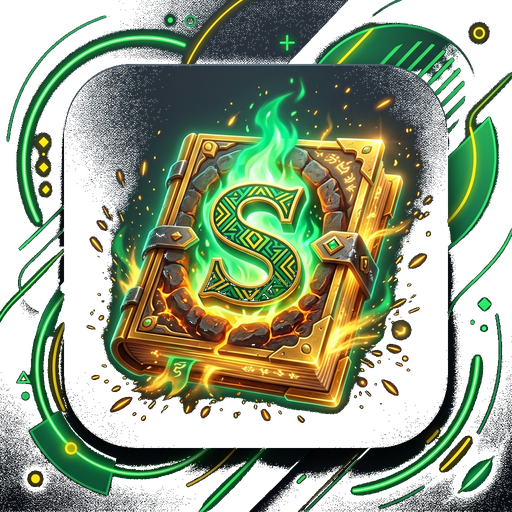
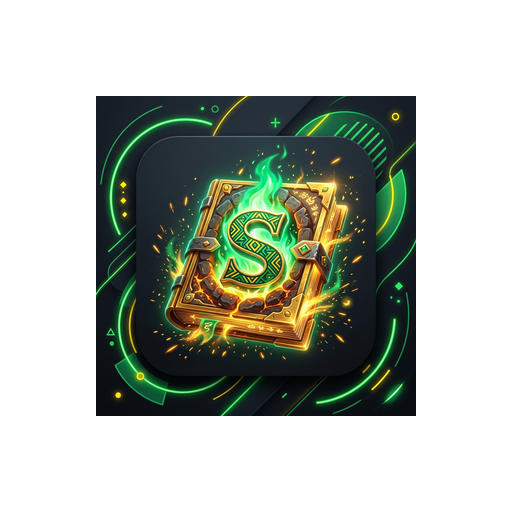
feat: generate custom branding assets and update splash screen configuration in app.json

diff --git a/scratch/generate_brand_assets.py b/scratch/generate_brand_assets.py
@@ -1,0 +1,72 @@
+import os
+from PIL import Image, ImageOps
+
+logo_path = r"C:\Users\hp\SabiSpell-V1\SabiSpell\assets\images\sabispell_logo.png"
+assets_dir = r"C:\Users\hp\SabiSpell-V1\SabiSpell\assets"
+
+def make_transparent_logo(img_path):
+    img = Image.open(img_path).convert("RGBA")
+    datas = img.getdata()
+    new_data = []
+    # The background color is white (255, 255, 255)
+    for item in datas:
+        r, g, b, a = item
+        # If the pixel is very close to white, make it transparent
+        if r > 240 and g > 240 and b > 240:
+            new_data.append((255, 255, 255, 0))
+        else:
+            new_data.append(item)
+    img.putdata(new_data)
+    
+    # Auto-crop to bounding box of non-transparent pixels to get only the logo content
+    bbox = img.getbbox()
+    if bbox:
+        img_cropped = img.crop(bbox)
+        return img_cropped
+    return img
+
+print("Processing SabiSpell logo...")
+cropped_logo = make_transparent_logo(logo_path)
+print(f"Cropped logo size: {cropped_logo.size}")
+
+# 1. Generate assets/icon.png (1024x1024, solid #141F25 background, logo centered)
+icon_bg = Image.new("RGBA", (1024, 1024), (20, 31, 37, 255)) # #141F25
+# Resize cropped logo to fit nicely (e.g. max dimension 600px)
+w, h = cropped_logo.size
+max_dim = 600
+scale = min(max_dim / w, max_dim / h)
+new_w, new_h = int(w * scale), int(h * scale)
+logo_resized = cropped_logo.resize((new_w, new_h), Image.Resampling.LANCZOS)
+# Center it
+offset = ((1024 - new_w) // 2, (1024 - new_h) // 2)
+icon_bg.paste(logo_resized, offset, logo_resized)
+icon_bg.convert("RGB").save(os.path.join(assets_dir, "icon.png"), "PNG")
+print("Saved assets/icon.png")
+
+# 2. Generate assets/splash-icon.png (1024x1024, transparent background, logo centered)
+splash_bg = Image.new("RGBA", (1024, 1024), (0, 0, 0, 0))
+# Resize cropped logo to fit nicely (e.g. max dimension 480px)
+max_dim_splash = 480
+scale_splash = min(max_dim_splash / w, max_dim_splash / h)
+new_w_splash, new_h_splash = int(w * scale_splash), int(h * scale_splash)
+logo_resized_splash = cropped_logo.resize((new_w_splash, new_h_splash), Image.Resampling.LANCZOS)
+# Center it
+offset_splash = ((1024 - new_w_splash) // 2, (1024 - new_h_splash) // 2)
+splash_bg.paste(logo_resized_splash, offset_splash, logo_resized_splash)
+splash_bg.save(os.path.join(assets_dir, "splash-icon.png"), "PNG")
+print("Saved assets/splash-icon.png")
+
+# 3. Generate assets/android-icon-foreground.png (512x512, transparent background, logo centered inside safe area)
+# Safe zone for adaptive icon is 66% of the size (about 340px)
+fore_bg = Image.new("RGBA", (512, 512), (0, 0, 0, 0))
+max_dim_fore = 320
+scale_fore = min(max_dim_fore / w, max_dim_fore / h)
+new_w_fore, new_h_fore = int(w * scale_fore), int(h * scale_fore)
+logo_resized_fore = cropped_logo.resize((new_w_fore, new_h_fore), Image.Resampling.LANCZOS)
+# Center it
+offset_fore = ((512 - new_w_fore) // 2, (512 - new_h_fore) // 2)
+fore_bg.paste(logo_resized_fore, offset_fore, logo_resized_fore)
+fore_bg.save(os.path.join(assets_dir, "android-icon-foreground.png"), "PNG")
+print("Saved assets/android-icon-foreground.png")
+
+print("All custom branding assets generated successfully!")

diff --git a/scratch/check_webp_contents.py b/scratch/check_webp_contents.py
@@ -1,0 +1,31 @@
+import os
+from PIL import Image
+import collections
+
+res_dir = r"C:\Users\hp\SabiSpell-V1\SabiSpell\android\app\src\main\res"
+path = os.path.join(res_dir, "mipmap-xxxhdpi", "ic_launcher_foreground.webp")
+
+if os.path.exists(path):
+    with Image.open(path) as img:
+        print(f"ic_launcher_foreground.webp: format={img.format}, size={img.size}, mode={img.mode}")
+        # Count transparent/non-transparent pixels
+        datas = img.getdata()
+        transparent = 0
+        non_transparent = 0
+        color_counts = collections.Counter()
+        for item in datas:
+            if len(item) == 4:
+                r, g, b, a = item
+                if a > 10:
+                    non_transparent += 1
+                    color_counts[(r, g, b)] += 1
+                else:
+                    transparent += 1
+            else:
+                non_transparent += 1
+        print(f"Transparent pixels: {transparent}, Non-transparent pixels: {non_transparent}")
+        print("Top 5 non-transparent colors:")
+        for c, count in color_counts.most_common(5):
+            print(f"  Color: {c}, Count: {count}")
+else:
+    print("File not found:", path)

diff --git a/scratch/check_native_splash.py b/scratch/check_native_splash.py
@@ -1,0 +1,30 @@
+import os
+from PIL import Image
+import collections
+
+res_dir = r"C:\Users\hp\SabiSpell-V1\SabiSpell\android\app\src\main\res"
+path = os.path.join(res_dir, "drawable-xxxhdpi", "splashscreen_logo.png")
+
+if os.path.exists(path):
+    with Image.open(path) as img:
+        print(f"splashscreen_logo.png: format={img.format}, size={img.size}, mode={img.mode}")
+        datas = img.getdata()
+        transparent = 0
+        non_transparent = 0
+        color_counts = collections.Counter()
+        for item in datas:
+            if len(item) == 4:
+                r, g, b, a = item
+                if a > 10:
+                    non_transparent += 1
+                    color_counts[(r, g, b)] += 1
+                else:
+                    transparent += 1
+            else:
+                non_transparent += 1
+        print(f"Transparent pixels: {transparent}, Non-transparent pixels: {non_transparent}")
+        print("Top 5 non-transparent colors:")
+        for c, count in color_counts.most_common(5):
+            print(f"  Color: {c}, Count: {count}")
+else:
+    print("File not found:", path)

diff --git a/scratch/check_splash_similarity.py b/scratch/check_splash_similarity.py
@@ -1,0 +1,24 @@
+import os
+from PIL import Image
+
+assets_dir = r"C:\Users\hp\SabiSpell-V1\SabiSpell\assets"
+splash_path = os.path.join(assets_dir, "splash-icon.png")
+logo_path = os.path.join(assets_dir, "images", "sabispell_logo.png")
+
+if os.path.exists(splash_path) and os.path.exists(logo_path):
+    with Image.open(splash_path) as img1, Image.open(logo_path) as img2:
+        print(f"splash-icon.png: size={img1.size}, mode={img1.mode}")
+        print(f"sabispell_logo.png: size={img2.size}, mode={img2.mode}")
+        
+        # Compare pixels
+        img1_rgb = img1.convert("RGB")
+        img2_rgb = img2.convert("RGB")
+        
+        diff = 0
+        for x in range(0, 1024, 8):
+            for y in range(0, 1024, 8):
+                if img1_rgb.getpixel((x, y)) != img2_rgb.getpixel((x, y)):
+                    diff += 1
+        print("Difference count (sampled 1/64 pixels):", diff)
+else:
+    print("Files not found")

diff --git a/scratch/inspect_splash_and_foreground.py b/scratch/inspect_splash_and_foreground.py
@@ -1,0 +1,25 @@
+from PIL import Image
+import os
+
+assets_dir = r"C:\Users\hp\SabiSpell-V1\SabiSpell\assets"
+files = [
+    "icon.png",
+    "splash-icon.png",
+    "android-icon-foreground.png",
+    "android-icon-background.png",
+    "android-icon-monochrome.png"
+]
+
+for f in files:
+    path = os.path.join(assets_dir, f)
+    if os.path.exists(path):
+        with Image.open(path) as img:
+            print(f"{f}: format={img.format}, size={img.size}, mode={img.mode}")
+            # check colors briefly
+            colors = img.getcolors(maxcolors=256)
+            if colors:
+                print(f"  Unique colors (<256): {len(colors)}")
+            else:
+                print("  Unique colors: >256")
+    else:
+        print(f"{f} not found")

diff --git a/scratch/inspect_native_icons.py b/scratch/inspect_native_icons.py
@@ -1,0 +1,12 @@
+import os
+from PIL import Image
+
+res_dir = r"C:\Users\hp\SabiSpell-V1\SabiSpell\android\app\src\main\res"
+
+for root, dirs, files in os.walk(res_dir):
+    for f in files:
+        if f.endswith(".png") and ("ic_launcher" in f or "splash" in f):
+            path = os.path.join(root, f)
+            rel_path = os.path.relpath(path, res_dir)
+            with Image.open(path) as img:
+                print(f"{rel_path}: size={img.size}, mode={img.mode}")

diff --git a/scratch/inspect_res_folder.py b/scratch/inspect_res_folder.py
@@ -1,0 +1,9 @@
+import os
+
+res_dir = r"C:\Users\hp\SabiSpell-V1\SabiSpell\android\app\src\main\res"
+
+for root, dirs, files in os.walk(res_dir):
+    for f in files:
+        path = os.path.join(root, f)
+        rel_path = os.path.relpath(path, res_dir)
+        print(rel_path)
